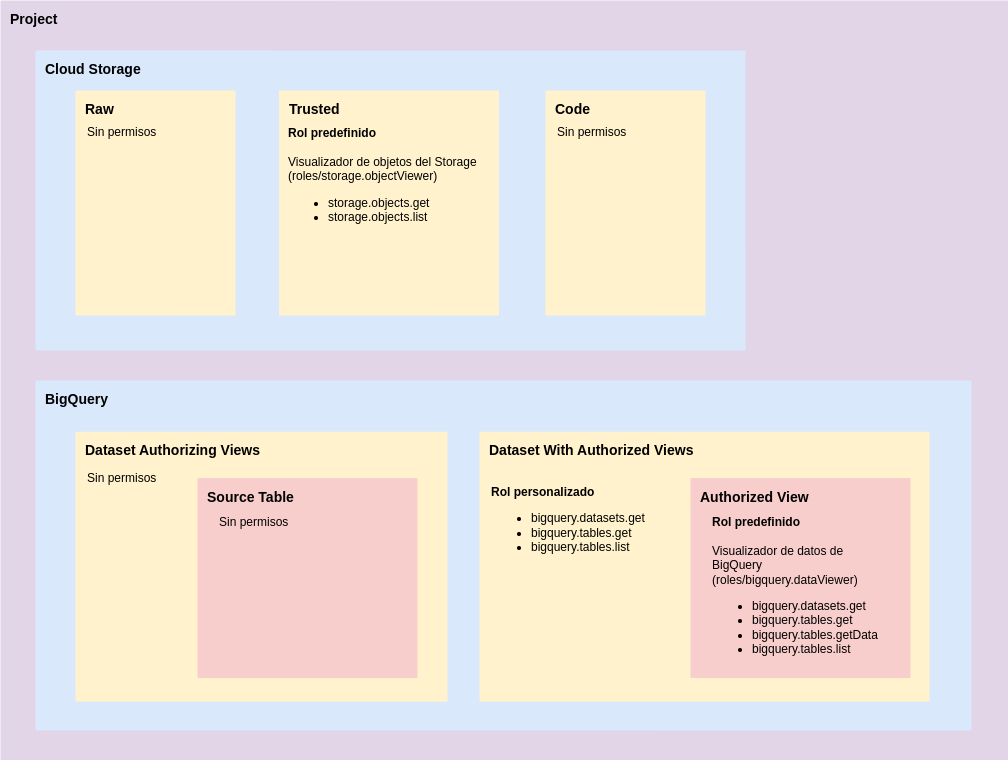
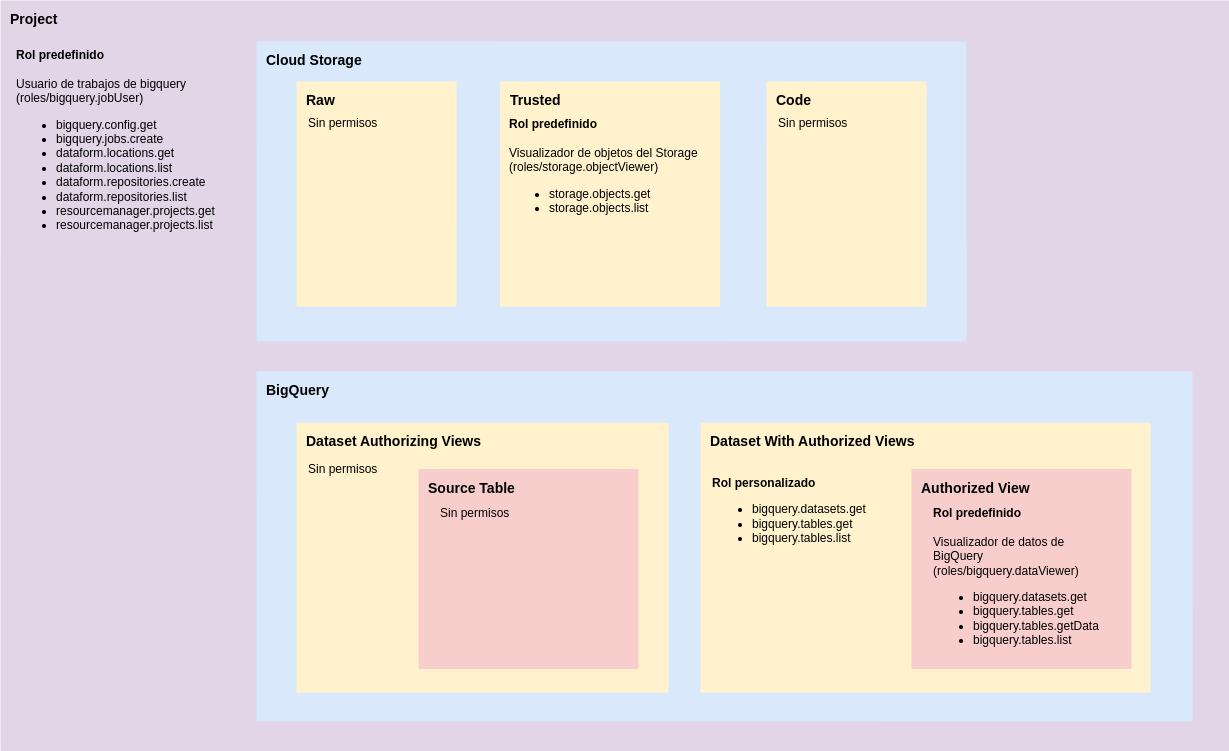
docs: corrección de comunicación

diff --git a/documentacion/readme.md b/documentacion/readme.md
@@ -799,8 +799,6 @@ Política ingeniero de datos
 | Rol                   | ID                         | Principal                                 | Nivel en Jerarquía |
 |-----------------------|----------------------------|-------------------------------------------|--------------------|
 | Viewer                | roles/viewer               | ingenierodedatosgcpfunnel@grupo-exito.com | Proyecto           |
-| Storage Object Viewer | roles/storage.objectViewer | ingenierodedatosgcpfunnel@grupo-exito.com | Proyecto           |
-| BigQuery Data Viewer  | roles/bigquery.dataViewer  | ingenierodedatosgcpfunnel@grupo-exito.com | Proyecto           |
 
 Esta política de permisos está diseñada para que el usuario tenga la posibilidad de visualizar todos los recursos
 asociados a un proyecto, sin poder modificar o crear nuevos recursos.
@@ -813,9 +811,10 @@ Esta política está asignada al grupo `ingenierodedatosgcpfunnel@grupo-exito.co
 
 Política científico
 
-| Title                      | Principal                                  | Nivel en Jerarquía | 
-|----------------------------|--------------------------------------------|--------------------|
-| Data Scientist Custom Role | cientificodedatosgcpfunnel@grupo-exito.com | Proyecto           |
+| Rol                        | ID                     | Principal                                  | Nivel en Jerarquía | 
+|----------------------------|------------------------|--------------------------------------------|--------------------|
+| Data Scientist Custom Role |                        | cientificodedatosgcpfunnel@grupo-exito.com | Proyecto           |
+| BigQuery Job User          | roles/bigquery.jobUser | cientificodedatosgcpfunnel@grupo-exito.com | proyecto           |
 
 En el diagrama anterior podemos ver esquematizada la política de de permisos a nivel de proyecto. Se organizan los
 permisos de manera jerárquica y se agrupan en roles personalizados y predefinidos siguiendo la política de privilegios
@@ -828,7 +827,6 @@ Esta política de permisos permite que un usuario tenga las siguientes funciones
   desde un proyecto de **consulta** sin poder crear nuevas entidades ni modificar las existentes en BigQuery.
 - Hacer trabajos de consultas en BigQuery desde un proyecto de **consulta**, sin poder guardar los resultados como
   vistas.
-- Guardar y visualizar consultas SQL desde un proyecto de **consulta**.
 
 **Asignación de política**
 
@@ -841,10 +839,13 @@ denegar permisos a un usuario solo se debe agregar o eliminar el usuario del gru
 
 Política analista de datos
 
-| Title                   | Principal                                | Nivel en Jerarquía |
-|-------------------------|------------------------------------------|--------------------|
-| Data Analyst Custom Rol | analistadedatosgcpfunnel@grupo-exito.com | dataset vistas     | 
-| Storage Object Viewer   | analistadedatosgcpfunnel@grupo-exito.com | bucket trusted     | 
+| Rol                     | ID                         | Principal                                | Nivel en Jerarquía |
+|-------------------------|----------------------------|------------------------------------------|--------------------|
+| Data Analyst Custom Rol |                            | analistadedatosgcpfunnel@grupo-exito.com | dataset vistas     | 
+| Storage Object Viewer   |                            | analistadedatosgcpfunnel@grupo-exito.com | bucket trusted     | 
+| BigQuery Job User       | roles/bigquery.jobUser     | analistadedatosgcpfunnel@grupo-exito.com | proyecto           |
+| Storage Object Viewer   | roles/storage.objectViewer | analistadedatosgcpfunnel@grupo-exito.com | capa trusted       |
+| BigQuery Data Viewer    | roles/bigquery.dataViewer  | analistadedatosgcpfunnel@grupo-exito.com | vista autorizada   |
 
 Se usan vistas autorizadas para dar acceso granular (columnar) a vistas específicas. Una vista autorizada te permite
 compartir resultados de consultas con usuarios y grupos específicos sin darles acceso a los datos de origen.
@@ -859,8 +860,7 @@ página [Crear una vista autorizada](https://cloud.google.com/bigquery/docs/shar
 
 El usuario al que se le aplique esta política de permisos podrá realizar las siguientes acciones:
 
-- Visualizar y consultar las vistas granulares en las cuales tenga los permisos necesarios desde un proyecto de *
-  *consulta**.
+- Visualizar y consultar las vistas granulares en las cuales tenga los permisos necesarios.
 
 **Asignación de política**
 
@@ -952,6 +952,3 @@ deben seguirse las mejores prácticas de seguridad que permitan garantizar el pr
 significa asignar solamente los permisos que son necesarios para el desempeño de las funciones que la cuenta de servicio
 requiere, revisar y actualizar regularmente estos permisos para mantener la seguridad y eficiencia de los recursos y
 servicios de GCP.
-
-
-
